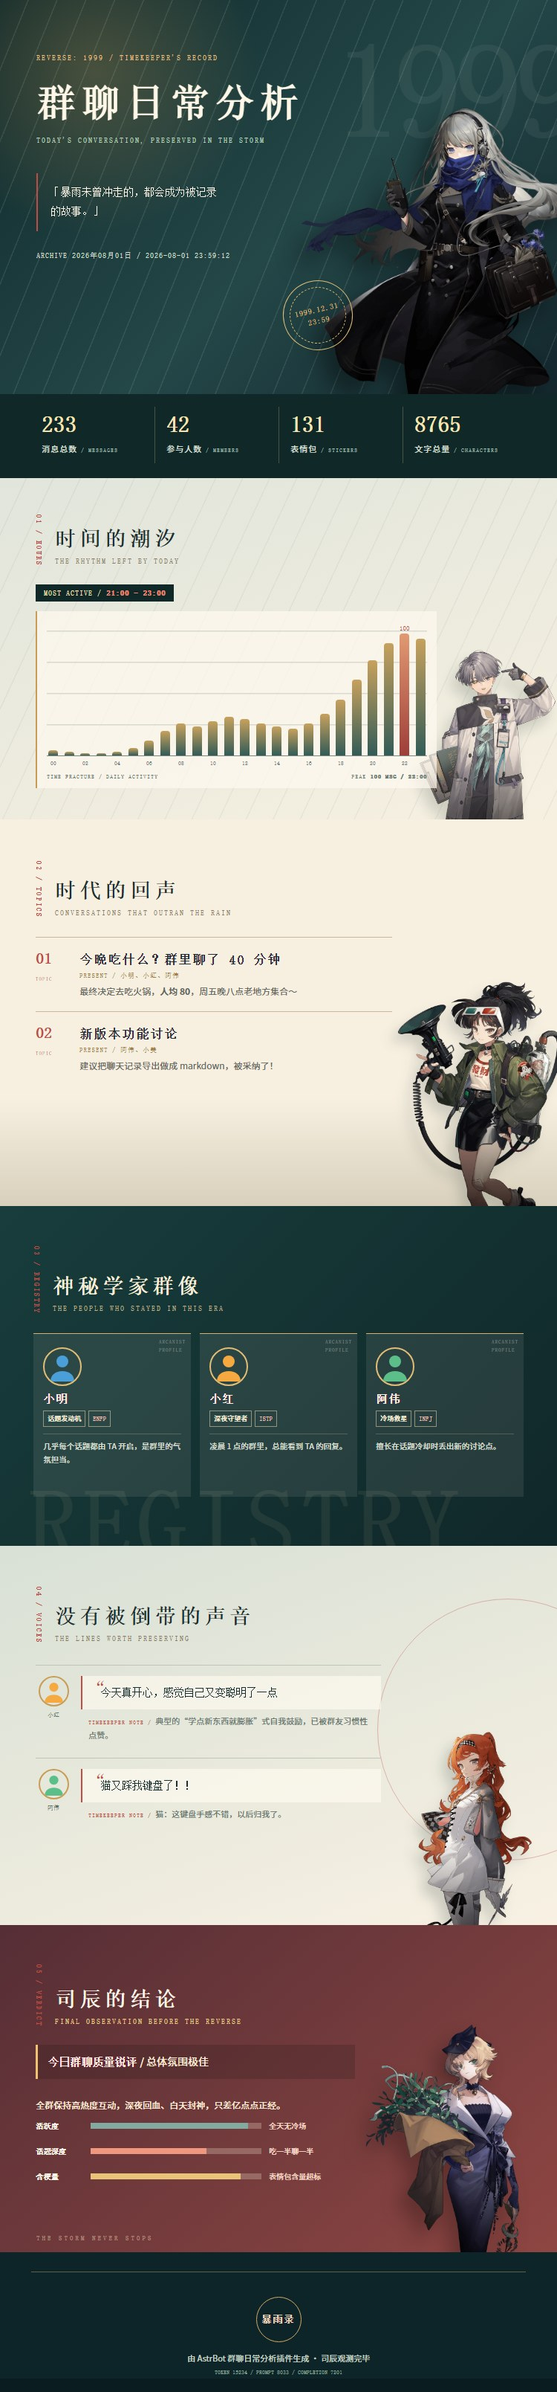
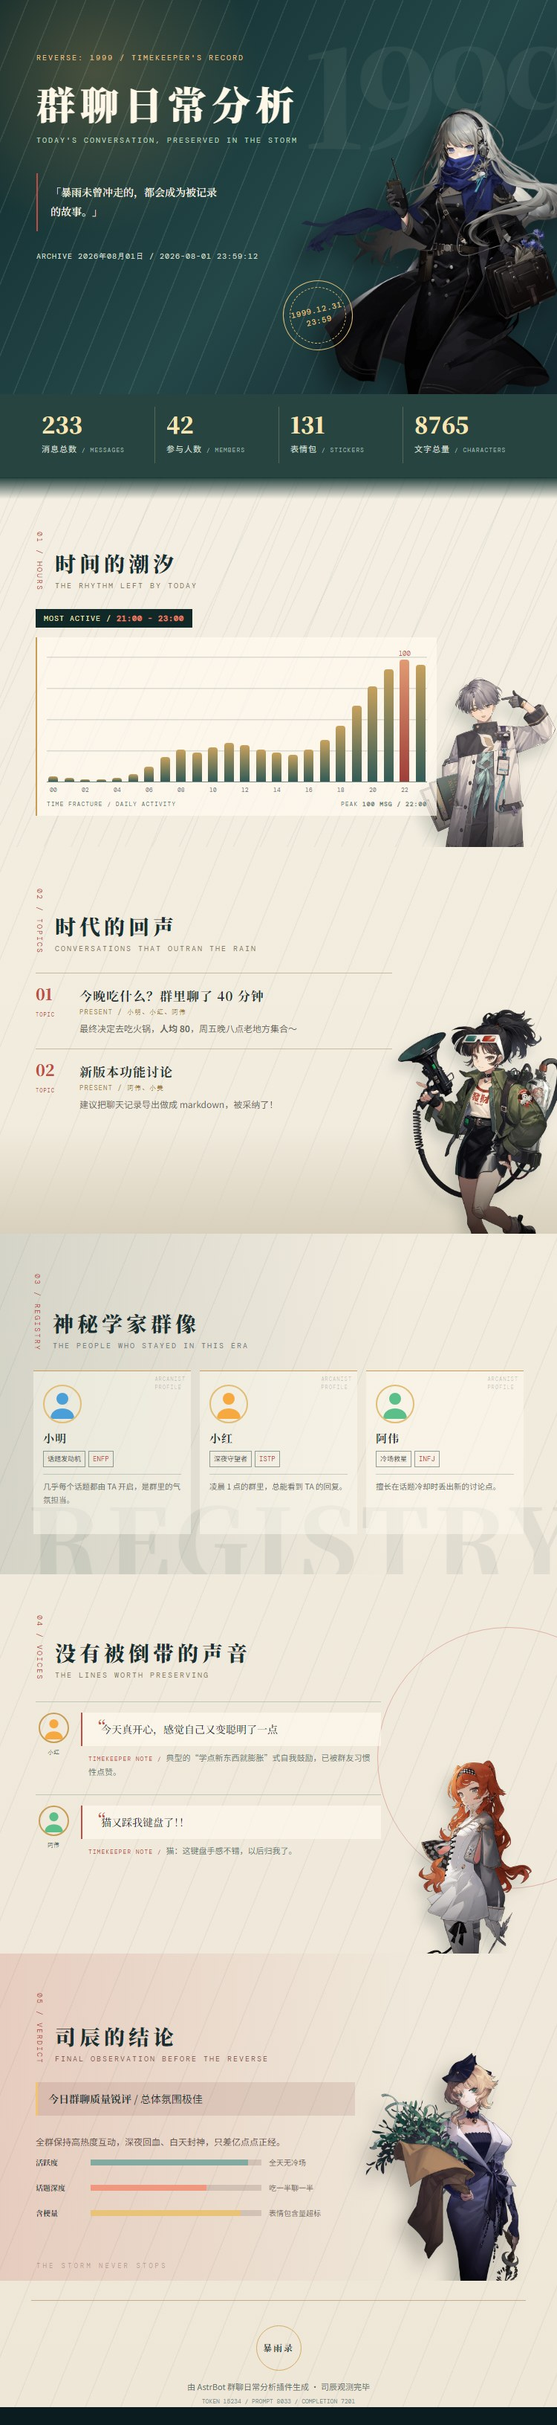
Unify Reverse 1999 report background

diff --git a/gda_reverse_1999/image_template.html b/gda_reverse_1999/image_template.html
@@ -1,4 +1,4 @@
 <!DOCTYPE html>
 <html lang="{{ 'zh-CN' if t2i_font_source == 'Mainland' else 'zh-Hant' }}"><head><meta charset="UTF-8"><meta name="viewport" content="width=device-width,initial-scale=1"><title>重返未来：1999 · 群聊观测</title><link rel="preconnect" href="{{ t2i_google_fonts_mirror }}"><link href="{{ t2i_google_fonts_mirror }}/css2?family=Noto+Serif+SC:wght@500;700;900&family=Noto+Serif+TC:wght@500;700;900&family=Noto+Sans+SC:wght@400;500;700&family=Noto+Sans+TC:wght@400;500;700&family=DM+Mono&display=swap" rel="stylesheet"><style>
-:root{--night:#102928;--deep:#0b1c20;--mist:#dce2d7;--paper:#f4efe2;--ivory:#fffaf0;--gold:#c99c55;--red:#bd4d45;--blue:#8ca9a3;--ink:#183031;--font-title:{% if t2i_font_source == 'Mainland' %}'Noto Serif SC','Noto Serif TC'{% else %}'Noto Serif TC','Noto Serif SC'{% endif %},serif;--font-body:{% if t2i_font_source == 'Mainland' %}'Noto Sans SC','Noto Sans TC'{% else %}'Noto Sans TC','Noto Sans SC'{% endif %},sans-serif;--mono:'DM Mono',monospace}*{box-sizing:border-box;margin:0;padding:0}html{background:var(--deep)}body{font-family:var(--font-body);color:var(--ink);font-size:15px;line-height:1.8;-webkit-print-color-adjust:exact;print-color-adjust:exact}.page{width:750px;margin:auto;overflow:hidden;background:var(--paper)}.avoid-break{break-inside:avoid;page-break-inside:avoid}.hero{height:530px;position:relative;overflow:hidden;color:#fff8e8;background:linear-gradient(135deg,#102a2b 0%,#244748 55%,#13272d 100%)}.hero:before{content:"";position:absolute;inset:0;background:repeating-linear-gradient(112deg,transparent 0 34px,rgba(218,236,223,.11) 35px 36px),radial-gradient(circle at 17% 18%,rgba(201,156,85,.28),transparent 29%)}.hero:after{content:"1999";position:absolute;right:-24px;top:32px;font:900 180px/1 var(--font-title);letter-spacing:-12px;color:rgba(255,249,230,.06)}.hero-copy{position:absolute;z-index:3;left:49px;top:70px;width:398px}.eyebrow,.en,.chapter-index,.footer-code{font:10px/1.5 var(--mono);letter-spacing:2px}.eyebrow{color:#e2bf82}.hero h1{margin-top:21px;font:900 52px/1.25 var(--font-title);letter-spacing:7px}.hero .en{margin-top:10px;color:#bbcfbf}.hero-quote{margin-top:37px;width:255px;padding:13px 0 13px 17px;border-left:2px solid var(--red);font-family:var(--font-title);font-size:14px;line-height:1.85}.hero-date{margin-top:27px;color:#d6dccc;font:10px var(--mono);letter-spacing:1px}.hero-char{position:absolute;z-index:2;right:-34px;bottom:-26px;width:380px;filter:drop-shadow(-16px 17px 14px rgba(0,0,0,.37))}.hero-seal{position:absolute;z-index:4;right:275px;bottom:59px;width:94px;height:94px;border:1px solid #dfbd78;border-radius:50%;display:flex;align-items:center;justify-content:center;text-align:center;color:#efc980;font:10px/1.55 var(--mono);letter-spacing:1px;transform:rotate(-13deg)}.hero-seal:after{content:"";position:absolute;inset:8px;border:1px dashed #dfbd78;border-radius:50%}.metrics{display:grid;grid-template-columns:repeat(4,1fr);background:var(--night);color:#fff8e8;padding:17px 41px 20px;gap:0}.metric{padding:5px 15px 8px;border-left:1px solid rgba(224,200,145,.27)}.metric:first-child{border:0}.metric b{display:block;font:900 30px/1.2 var(--font-title);color:#f8e5b5}.metric small{font-size:11px;color:#d3dfd2;letter-spacing:1px}.metric span{font:8px var(--mono);color:#9eb4aa;letter-spacing:1px}.scene{position:relative;overflow:hidden}.scene-title{display:flex;align-items:flex-end;gap:16px;position:relative;z-index:3}.chapter-index{color:var(--red);writing-mode:vertical-rl;line-height:1}.scene-title h2{font:900 28px/1.2 var(--font-title);letter-spacing:5px}.scene-title .en{margin-top:5px;color:#8b7761}.tide{min-height:410px;padding:49px 48px 42px;background:linear-gradient(160deg,#e1e5db,#f6f0e1)}.tide:before{content:"";position:absolute;inset:0;background:repeating-linear-gradient(115deg,transparent 0 31px,rgba(40,74,70,.06) 32px 33px)}.tide-char{position:absolute;right:-25px;bottom:-46px;width:250px;opacity:.88;filter:drop-shadow(-8px 13px 9px rgba(25,43,40,.2))}.tide .scene-title{width:420px}.peak-box{position:relative;z-index:3;display:inline-block;margin:24px 0 13px;padding:6px 11px;background:var(--night);color:#f2e0b7;font:10px var(--mono);letter-spacing:1px}.peak-box b{color:#f18770}.chart-wrap{position:relative;z-index:3;width:540px;padding:14px 13px 11px;background:rgba(255,250,239,.7);border-left:2px solid var(--gold)}.chart-col{padding-top:20px;background:repeating-linear-gradient(0deg,transparent 0 40px,rgba(31,55,51,.15) 41px 42px)}.chart-bars{height:160px;display:flex;gap:4px;align-items:flex-end}.chart-item{height:100%;flex:1;display:flex;align-items:flex-end;justify-content:center;position:relative}.chart-bar{width:75%;min-height:3px;background:linear-gradient(to top,#335b57,#c7a15e);border-radius:4px 4px 0 0}.chart-bar.peak{background:linear-gradient(to top,#9e3e39,#e19a73)}.chart-val{position:absolute;bottom:calc(100% + 6px);font:9px var(--mono);color:var(--red)}.chart-hr{border:0;border-top:1px solid #778780}.chart-labels{display:flex;gap:4px;padding-top:5px}.chart-labels span{flex:1;text-align:center;font:8px var(--mono);color:#708079}.chart-caption{display:flex;justify-content:space-between;margin-top:9px;font:8px var(--mono);letter-spacing:1px;color:#697870}.topic-scene{min-height:520px;padding:56px 48px 70px;background:#f7f0e1}.topic-scene:before{content:"";position:absolute;left:0;right:0;bottom:0;height:145px;background:linear-gradient(0deg,#d8d0bc,transparent)}.topic-scene .scene-title{margin-bottom:25px}.topic-list{position:relative;z-index:2;width:480px}.topic-item{display:flex;gap:17px;padding:17px 0;border-top:1px solid #c9b99c}.topic-no{width:42px;flex:none;color:var(--red)}.topic-no b{display:block;font:900 21px/1 var(--font-title)}.topic-no span{font:7px var(--mono);letter-spacing:1px}.topic-title{font:700 17px/1.5 var(--font-title);letter-spacing:1px}.topic-meta{margin-top:3px;color:#a47d42;font:9px var(--mono);letter-spacing:1px}.topic-detail{margin-top:5px;color:#5f6861;font-size:12px}.topic-char{position:absolute;right:-58px;bottom:-33px;width:300px;z-index:1;filter:drop-shadow(-9px 11px 8px rgba(25,43,40,.17))}.registry{min-height:457px;padding:54px 45px;background:linear-gradient(135deg,#183d3c,#102729);color:#f9f0dc}.registry:before{content:"REGISTRY";position:absolute;left:37px;bottom:-44px;color:rgba(232,212,169,.08);font:900 130px var(--font-title);letter-spacing:6px}.registry .en{color:#bfae87}.title-grid{display:grid;grid-template-columns:repeat(3,1fr);gap:12px;position:relative;z-index:2;margin-top:26px}.title-card{min-height:220px;position:relative;padding:18px 13px;background:rgba(255,248,230,.09);border-top:1px solid #d4b272;overflow:hidden}.title-card:after{content:"ARCANIST\A PROFILE";white-space:pre;position:absolute;right:7px;top:6px;color:rgba(255,248,230,.35);font:7px/1.5 var(--mono);letter-spacing:1px}.t-avatar{width:52px;height:52px;border-radius:50%;overflow:hidden;border:2px solid #e2bd75}.t-avatar img{width:100%;height:100%;object-fit:cover}.t-name{margin-top:9px;font:700 15px var(--font-title);letter-spacing:1px}.t-badges{display:flex;gap:4px;flex-wrap:wrap;margin-top:7px}.t-title-tag,.t-mbti{padding:2px 5px;border:1px solid rgba(239,218,175,.54);font-size:9px}.t-mbti{font-family:var(--mono);color:#f3bdad}.t-reason{margin-top:9px;padding-top:7px;border-top:1px solid rgba(239,218,175,.23);font-size:10.5px;line-height:1.7;color:#d7ded0}.t-profile{position:absolute;right:-6px;bottom:-4px;width:58%;opacity:.08}.quote-stage{min-height:510px;padding:55px 48px;background:linear-gradient(160deg,#d8e0d5,#f8f1e3)}.quote-stage:after{content:"";position:absolute;right:-110px;top:71px;width:350px;height:350px;border:1px solid rgba(190,73,66,.35);border-radius:50%}.quote-stage .scene-title{margin-bottom:28px}.quote-wrapper{position:relative;z-index:2;width:465px;padding:14px 0;border-top:1px solid #bec6b9}.q-flex{display:flex;gap:13px}.q-side{flex:none;width:48px;text-align:center}.q-avatar{width:41px;height:41px;object-fit:cover;border-radius:50%;border:2px solid var(--gold)}.q-sender{font:8px var(--mono);color:#61716a;word-break:break-all}.q-main{flex:1}.q-bubble{padding:10px 13px 10px 25px;background:rgba(255,251,240,.65);border-left:2px solid var(--red);font:14px/1.75 var(--font-title);position:relative}.q-bubble:before{content:'“';position:absolute;left:9px;top:3px;font:23px var(--font-title);color:var(--red)}.q-note{padding:6px 10px;color:#68766f;font-size:11px}.note-label{font:8px var(--mono);color:var(--red);letter-spacing:1px}.quote-char{position:absolute;right:-20px;bottom:-47px;width:285px;z-index:1;filter:drop-shadow(-9px 13px 8px rgba(30,50,47,.19))}.assessment{min-height:440px;padding:53px 48px 38px;background:linear-gradient(140deg,#552e35,#8e4642);color:#fff7e8}.assessment:before{content:"THE STORM NEVER STOPS";position:absolute;left:49px;bottom:14px;font:9px var(--mono);letter-spacing:3px;color:rgba(255,239,207,.43)}.assessment .en{color:#ebc98b}.block-char{position:absolute;right:-17px;bottom:-27px;width:294px;filter:drop-shadow(-13px 15px 12px rgba(0,0,0,.25))}.quality-summary{position:relative;z-index:2;width:430px;margin-top:24px;font-size:12px;color:#ffeeda}.quality-summary.head{padding:10px 14px;border-left:3px solid #f2c470;background:rgba(30,20,22,.2);font-size:14px}.quality-summary b{font-family:var(--font-title)}.dim-row{position:relative;z-index:2;display:flex;align-items:center;gap:10px;width:418px;padding:8px 0;font-size:10px}.dim-name{width:64px;font-family:var(--font-title);font-weight:700}.dim-bar-box{flex:1;height:8px;background:rgba(255,245,220,.25)}.dim-bar{height:100%;background:#e9c378}.dim-bar.d2{background:#83aaa0}.dim-bar.d3{background:#f0987f}.dim-comment{width:104px;color:#f4d9c5}.footer{position:relative;height:170px;padding-top:60px;text-align:center;background:#0d2528;color:#e4d6b7}.footer:before{content:"";position:absolute;left:42px;right:42px;top:26px;border-top:1px solid rgba(225,190,123,.39)}.seal{display:inline-flex;width:61px;height:61px;align-items:center;justify-content:center;border:1px solid #d4ab67;border-radius:50%;font:700 12px/1.35 var(--font-title);letter-spacing:2px;position:relative;z-index:1}.seal span{display:none}.footer-line{margin-top:12px;font-size:11px;color:#c3d1c2}.token-line{margin-top:4px;font:8px var(--mono);color:#89a39a}.footer-art,.footer-art2,.footer-orn,.deco-char,.blk-sticker,.sec-head,.sec-no,.sec-title,.sec-sub,.kpi-row,.kpi-card,.kpi-num,.kpi-unit,.kpi-label,.kpi-en{display:none}
-</style></head><body><div class="page"><section class="hero"><div class="hero-copy"><div class="eyebrow">REVERSE: 1999 / TIMEKEEPER'S RECORD</div><h1>群聊日常分析</h1><div class="en">TODAY'S CONVERSATION, PRESERVED IN THE STORM</div><div class="hero-quote">「暴雨未曾冲走的，都会成为被记录的故事。」</div><div class="hero-date">ARCHIVE {{ current_date }} / {{ current_datetime }}</div></div><div class="hero-seal">1999.12.31<br>23:59</div><img class="hero-char" src="https://re.bluepoch.com/home/img/role/2.png" alt="维尔汀"></section><section class="metrics"><div class="metric"><b>{{ message_count }}</b><small>消息总数</small><span> / MESSAGES</span></div><div class="metric"><b>{{ participant_count }}</b><small>参与人数</small><span> / MEMBERS</span></div><div class="metric"><b>{{ emoji_count }}</b><small>表情包</small><span> / STICKERS</span></div><div class="metric"><b>{{ total_characters }}</b><small>文字总量</small><span> / CHARACTERS</span></div></section><section class="scene tide"><img class="tide-char" src="https://re.bluepoch.com/home/img/role/1.png" alt="角色"><div class="scene-title"><div class="chapter-index">01 / HOURS</div><div><h2>时间的潮汐</h2><div class="en">THE RHYTHM LEFT BY TODAY</div></div></div><div class="peak-box">MOST ACTIVE / <b>{{ most_active_period }}</b></div>{{ hourly_chart_html | safe }}</section><section class="scene topic-scene"><img class="topic-char" src="https://re.bluepoch.com/home/img/role/4.png" alt="角色">{{ topics_html | safe }}</section><section class="scene registry">{{ titles_html | safe }}</section><section class="scene quote-stage"><img class="quote-char" src="https://re.bluepoch.com/home/img/role/5.png" alt="角色">{{ quotes_html | safe }}</section>{% if chat_quality_html %}<section class="scene assessment">{{ chat_quality_html | safe }}</section>{% endif %}<footer class="footer"><div class="seal">暴雨录<span>STORM</span></div><div class="footer-line">由 AstrBot 群聊日常分析插件生成 · 司辰观测完毕</div><div class="token-line">TOKEN {{ total_tokens }} / PROMPT {{ prompt_tokens }} / COMPLETION {{ completion_tokens }}</div></footer></div></body></html>
+:root{--night:#102928;--deep:#0b1c20;--mist:#dce2d7;--paper:#f4efe2;--ivory:#fffaf0;--gold:#c99c55;--red:#bd4d45;--blue:#8ca9a3;--ink:#183031;--font-title:{% if t2i_font_source == 'Mainland' %}'Noto Serif SC','Noto Serif TC'{% else %}'Noto Serif TC','Noto Serif SC'{% endif %},serif;--font-body:{% if t2i_font_source == 'Mainland' %}'Noto Sans SC','Noto Sans TC'{% else %}'Noto Sans TC','Noto Sans SC'{% endif %},sans-serif;--mono:'DM Mono',monospace}*{box-sizing:border-box;margin:0;padding:0}html{background:var(--deep)}body{font-family:var(--font-body);color:var(--ink);font-size:15px;line-height:1.8;-webkit-print-color-adjust:exact;print-color-adjust:exact}.page{width:750px;margin:auto;overflow:hidden;background:#f4efe2;background-image:repeating-linear-gradient(112deg,transparent 0 42px,rgba(35,62,58,.055) 43px 44px),linear-gradient(180deg,#f5f0e4,#eee7d8)}.avoid-break{break-inside:avoid;page-break-inside:avoid}.hero{height:530px;position:relative;overflow:hidden;color:#fff8e8;background:linear-gradient(135deg,#102a2b 0%,#244748 55%,#13272d 100%)}.hero:before{content:"";position:absolute;inset:0;background:repeating-linear-gradient(112deg,transparent 0 34px,rgba(218,236,223,.11) 35px 36px),radial-gradient(circle at 17% 18%,rgba(201,156,85,.28),transparent 29%)}.hero:after{content:"1999";position:absolute;right:-24px;top:32px;font:900 180px/1 var(--font-title);letter-spacing:-12px;color:rgba(255,249,230,.06)}.hero-copy{position:absolute;z-index:3;left:49px;top:70px;width:398px}.eyebrow,.en,.chapter-index,.footer-code{font:10px/1.5 var(--mono);letter-spacing:2px}.eyebrow{color:#e2bf82}.hero h1{margin-top:21px;font:900 52px/1.25 var(--font-title);letter-spacing:7px}.hero .en{margin-top:10px;color:#bbcfbf}.hero-quote{margin-top:37px;width:255px;padding:13px 0 13px 17px;border-left:2px solid var(--red);font-family:var(--font-title);font-size:14px;line-height:1.85}.hero-date{margin-top:27px;color:#d6dccc;font:10px var(--mono);letter-spacing:1px}.hero-char{position:absolute;z-index:2;right:-34px;bottom:-26px;width:380px;filter:drop-shadow(-16px 17px 14px rgba(0,0,0,.37))}.hero-seal{position:absolute;z-index:4;right:275px;bottom:59px;width:94px;height:94px;border:1px solid #dfbd78;border-radius:50%;display:flex;align-items:center;justify-content:center;text-align:center;color:#efc980;font:10px/1.55 var(--mono);letter-spacing:1px;transform:rotate(-13deg)}.hero-seal:after{content:"";position:absolute;inset:8px;border:1px dashed #dfbd78;border-radius:50%}.metrics{display:grid;grid-template-columns:repeat(4,1fr);background:rgba(26,57,54,.94);color:#fff8e8;padding:17px 41px 20px;gap:0;position:relative}.metrics:after{content:"";position:absolute;left:0;right:0;bottom:-28px;height:29px;background:linear-gradient(180deg,rgba(26,57,54,.94),transparent);pointer-events:none;z-index:1}.metric{padding:5px 15px 8px;border-left:1px solid rgba(224,200,145,.27)}.metric:first-child{border:0}.metric b{display:block;font:900 30px/1.2 var(--font-title);color:#f8e5b5}.metric small{font-size:11px;color:#d3dfd2;letter-spacing:1px}.metric span{font:8px var(--mono);color:#9eb4aa;letter-spacing:1px}.scene{position:relative;overflow:hidden}.scene-title{display:flex;align-items:flex-end;gap:16px;position:relative;z-index:3}.chapter-index{color:var(--red);writing-mode:vertical-rl;line-height:1}.scene-title h2{font:900 28px/1.2 var(--font-title);letter-spacing:5px}.scene-title .en{margin-top:5px;color:#8b7761}.tide{min-height:410px;padding:72px 48px 42px;background:transparent}.tide:before{content:"";position:absolute;inset:0;background:repeating-linear-gradient(115deg,transparent 0 31px,rgba(40,74,70,.06) 32px 33px)}.tide-char{position:absolute;right:-25px;bottom:-46px;width:250px;opacity:.88;filter:drop-shadow(-8px 13px 9px rgba(25,43,40,.2))}.tide .scene-title{width:420px}.peak-box{position:relative;z-index:3;display:inline-block;margin:24px 0 13px;padding:6px 11px;background:var(--night);color:#f2e0b7;font:10px var(--mono);letter-spacing:1px}.peak-box b{color:#f18770}.chart-wrap{position:relative;z-index:3;width:540px;padding:14px 13px 11px;background:rgba(255,250,239,.7);border-left:2px solid var(--gold)}.chart-col{padding-top:20px;background:repeating-linear-gradient(0deg,transparent 0 40px,rgba(31,55,51,.15) 41px 42px)}.chart-bars{height:160px;display:flex;gap:4px;align-items:flex-end}.chart-item{height:100%;flex:1;display:flex;align-items:flex-end;justify-content:center;position:relative}.chart-bar{width:75%;min-height:3px;background:linear-gradient(to top,#335b57,#c7a15e);border-radius:4px 4px 0 0}.chart-bar.peak{background:linear-gradient(to top,#9e3e39,#e19a73)}.chart-val{position:absolute;bottom:calc(100% + 6px);font:9px var(--mono);color:var(--red)}.chart-hr{border:0;border-top:1px solid #778780}.chart-labels{display:flex;gap:4px;padding-top:5px}.chart-labels span{flex:1;text-align:center;font:8px var(--mono);color:#708079}.chart-caption{display:flex;justify-content:space-between;margin-top:9px;font:8px var(--mono);letter-spacing:1px;color:#697870}.topic-scene{min-height:520px;padding:56px 48px 70px;background:transparent}.topic-scene:before{content:"";position:absolute;left:0;right:0;bottom:0;height:145px;background:linear-gradient(0deg,#d8d0bc,transparent)}.topic-scene .scene-title{margin-bottom:25px}.topic-list{position:relative;z-index:2;width:480px}.topic-item{display:flex;gap:17px;padding:17px 0;border-top:1px solid #c9b99c}.topic-no{width:42px;flex:none;color:var(--red)}.topic-no b{display:block;font:900 21px/1 var(--font-title)}.topic-no span{font:7px var(--mono);letter-spacing:1px}.topic-title{font:700 17px/1.5 var(--font-title);letter-spacing:1px}.topic-meta{margin-top:3px;color:#a47d42;font:9px var(--mono);letter-spacing:1px}.topic-detail{margin-top:5px;color:#5f6861;font-size:12px}.topic-char{position:absolute;right:-58px;bottom:-33px;width:300px;z-index:1;filter:drop-shadow(-9px 11px 8px rgba(25,43,40,.17))}.registry{min-height:457px;padding:54px 45px;background:linear-gradient(90deg,rgba(20,55,52,.13),transparent 72%);color:var(--ink)}.registry:before{content:"REGISTRY";position:absolute;left:37px;bottom:-44px;color:rgba(232,212,169,.08);font:900 130px var(--font-title);letter-spacing:6px}.registry .en{color:#bfae87}.title-grid{display:grid;grid-template-columns:repeat(3,1fr);gap:12px;position:relative;z-index:2;margin-top:26px}.title-card{min-height:220px;position:relative;padding:18px 13px;background:rgba(255,248,230,.09);border-top:1px solid #d4b272;overflow:hidden}.title-card:after{content:"ARCANIST\A PROFILE";white-space:pre;position:absolute;right:7px;top:6px;color:rgba(255,248,230,.35);font:7px/1.5 var(--mono);letter-spacing:1px}.t-avatar{width:52px;height:52px;border-radius:50%;overflow:hidden;border:2px solid #e2bd75}.t-avatar img{width:100%;height:100%;object-fit:cover}.t-name{margin-top:9px;font:700 15px var(--font-title);letter-spacing:1px}.t-badges{display:flex;gap:4px;flex-wrap:wrap;margin-top:7px}.t-title-tag,.t-mbti{padding:2px 5px;border:1px solid rgba(239,218,175,.54);font-size:9px}.t-mbti{font-family:var(--mono);color:#f3bdad}.t-reason{margin-top:9px;padding-top:7px;border-top:1px solid rgba(239,218,175,.23);font-size:10.5px;line-height:1.7;color:#d7ded0}.t-profile{position:absolute;right:-6px;bottom:-4px;width:58%;opacity:.08}.quote-stage{min-height:510px;padding:55px 48px;background:transparent}.quote-stage:after{content:"";position:absolute;right:-110px;top:71px;width:350px;height:350px;border:1px solid rgba(190,73,66,.35);border-radius:50%}.quote-stage .scene-title{margin-bottom:28px}.quote-wrapper{position:relative;z-index:2;width:465px;padding:14px 0;border-top:1px solid #bec6b9}.q-flex{display:flex;gap:13px}.q-side{flex:none;width:48px;text-align:center}.q-avatar{width:41px;height:41px;object-fit:cover;border-radius:50%;border:2px solid var(--gold)}.q-sender{font:8px var(--mono);color:#61716a;word-break:break-all}.q-main{flex:1}.q-bubble{padding:10px 13px 10px 25px;background:rgba(255,251,240,.65);border-left:2px solid var(--red);font:14px/1.75 var(--font-title);position:relative}.q-bubble:before{content:'“';position:absolute;left:9px;top:3px;font:23px var(--font-title);color:var(--red)}.q-note{padding:6px 10px;color:#68766f;font-size:11px}.note-label{font:8px var(--mono);color:var(--red);letter-spacing:1px}.quote-char{position:absolute;right:-20px;bottom:-47px;width:285px;z-index:1;filter:drop-shadow(-9px 13px 8px rgba(30,50,47,.19))}.assessment{min-height:440px;padding:53px 48px 38px;background:linear-gradient(90deg,rgba(189,77,69,.18),transparent 75%);color:var(--ink)}.assessment:before{content:"THE STORM NEVER STOPS";position:absolute;left:49px;bottom:14px;font:9px var(--mono);letter-spacing:3px;color:rgba(255,239,207,.43)}.assessment .en{color:#ebc98b}.block-char{position:absolute;right:-17px;bottom:-27px;width:294px;filter:drop-shadow(-13px 15px 12px rgba(0,0,0,.25))}.quality-summary{position:relative;z-index:2;width:430px;margin-top:24px;font-size:12px;color:#ffeeda}.quality-summary.head{padding:10px 14px;border-left:3px solid #f2c470;background:rgba(30,20,22,.2);font-size:14px}.quality-summary b{font-family:var(--font-title)}.dim-row{position:relative;z-index:2;display:flex;align-items:center;gap:10px;width:418px;padding:8px 0;font-size:10px}.dim-name{width:64px;font-family:var(--font-title);font-weight:700}.dim-bar-box{flex:1;height:8px;background:rgba(255,245,220,.25)}.dim-bar{height:100%;background:#e9c378}.dim-bar.d2{background:#83aaa0}.dim-bar.d3{background:#f0987f}.dim-comment{width:104px;color:#f4d9c5}.footer{position:relative;height:170px;padding-top:60px;text-align:center;background:transparent;color:var(--ink)}.footer:before{content:"";position:absolute;left:42px;right:42px;top:26px;border-top:1px solid rgba(225,190,123,.39)}.seal{display:inline-flex;width:61px;height:61px;align-items:center;justify-content:center;border:1px solid #d4ab67;border-radius:50%;font:700 12px/1.35 var(--font-title);letter-spacing:2px;position:relative;z-index:1}.seal span{display:none}.footer-line{margin-top:12px;font-size:11px;color:#c3d1c2}.token-line{margin-top:4px;font:8px var(--mono);color:#89a39a}.footer-art,.footer-art2,.footer-orn,.deco-char,.blk-sticker,.sec-head,.sec-no,.sec-title,.sec-sub,.kpi-row,.kpi-card,.kpi-num,.kpi-unit,.kpi-label,.kpi-en{display:none}
+.registry:before{color:rgba(21,57,53,.075)}.registry .en{color:#71817a}.registry .chapter-index{color:var(--red)}.registry .title-card{background:rgba(255,250,240,.48);border-top-color:var(--gold)}.registry .title-card:after{color:rgba(28,65,61,.28)}.registry .t-name{color:var(--ink)}.registry .t-title-tag,.registry .t-mbti{border-color:rgba(44,75,69,.5);color:var(--ink)}.registry .t-mbti{color:var(--red)}.registry .t-reason{border-top-color:rgba(44,75,69,.22);color:#5b6e67}.assessment:before{color:rgba(133,59,52,.45)}.assessment .en{color:#8e554c}.assessment .quality-summary{color:#5d4a45}.assessment .quality-summary.head{background:rgba(116,49,43,.12);color:var(--ink)}.assessment .dim-comment{color:#745d56}.assessment .dim-bar-box{background:rgba(93,74,67,.18)}.footer:before{border-color:rgba(153,113,65,.5)}.footer-line{color:#566d66}.token-line{color:#82928c}</style></head><body><div class="page"><section class="hero"><div class="hero-copy"><div class="eyebrow">REVERSE: 1999 / TIMEKEEPER'S RECORD</div><h1>群聊日常分析</h1><div class="en">TODAY'S CONVERSATION, PRESERVED IN THE STORM</div><div class="hero-quote">「暴雨未曾冲走的，都会成为被记录的故事。」</div><div class="hero-date">ARCHIVE {{ current_date }} / {{ current_datetime }}</div></div><div class="hero-seal">1999.12.31<br>23:59</div><img class="hero-char" src="https://re.bluepoch.com/home/img/role/2.png" alt="维尔汀"></section><section class="metrics"><div class="metric"><b>{{ message_count }}</b><small>消息总数</small><span> / MESSAGES</span></div><div class="metric"><b>{{ participant_count }}</b><small>参与人数</small><span> / MEMBERS</span></div><div class="metric"><b>{{ emoji_count }}</b><small>表情包</small><span> / STICKERS</span></div><div class="metric"><b>{{ total_characters }}</b><small>文字总量</small><span> / CHARACTERS</span></div></section><section class="scene tide"><img class="tide-char" src="https://re.bluepoch.com/home/img/role/1.png" alt="角色"><div class="scene-title"><div class="chapter-index">01 / HOURS</div><div><h2>时间的潮汐</h2><div class="en">THE RHYTHM LEFT BY TODAY</div></div></div><div class="peak-box">MOST ACTIVE / <b>{{ most_active_period }}</b></div>{{ hourly_chart_html | safe }}</section><section class="scene topic-scene"><img class="topic-char" src="https://re.bluepoch.com/home/img/role/4.png" alt="角色">{{ topics_html | safe }}</section><section class="scene registry">{{ titles_html | safe }}</section><section class="scene quote-stage"><img class="quote-char" src="https://re.bluepoch.com/home/img/role/5.png" alt="角色">{{ quotes_html | safe }}</section>{% if chat_quality_html %}<section class="scene assessment">{{ chat_quality_html | safe }}</section>{% endif %}<footer class="footer"><div class="seal">暴雨录<span>STORM</span></div><div class="footer-line">由 AstrBot 群聊日常分析插件生成 · 司辰观测完毕</div><div class="token-line">TOKEN {{ total_tokens }} / PROMPT {{ prompt_tokens }} / COMPLETION {{ completion_tokens }}</div></footer></div></body></html>
